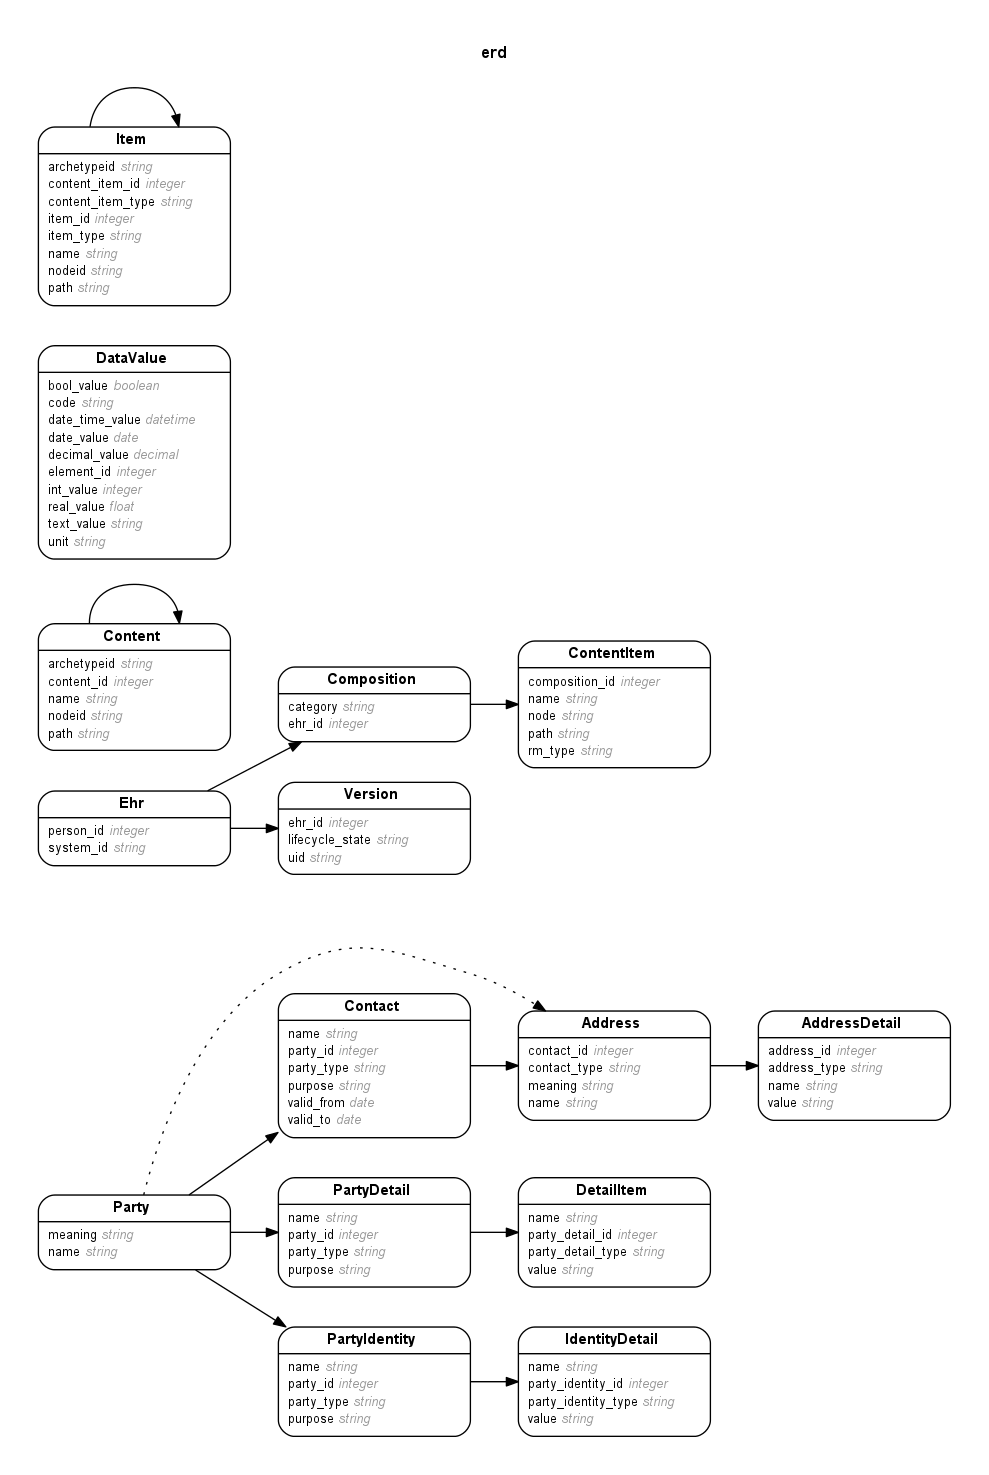
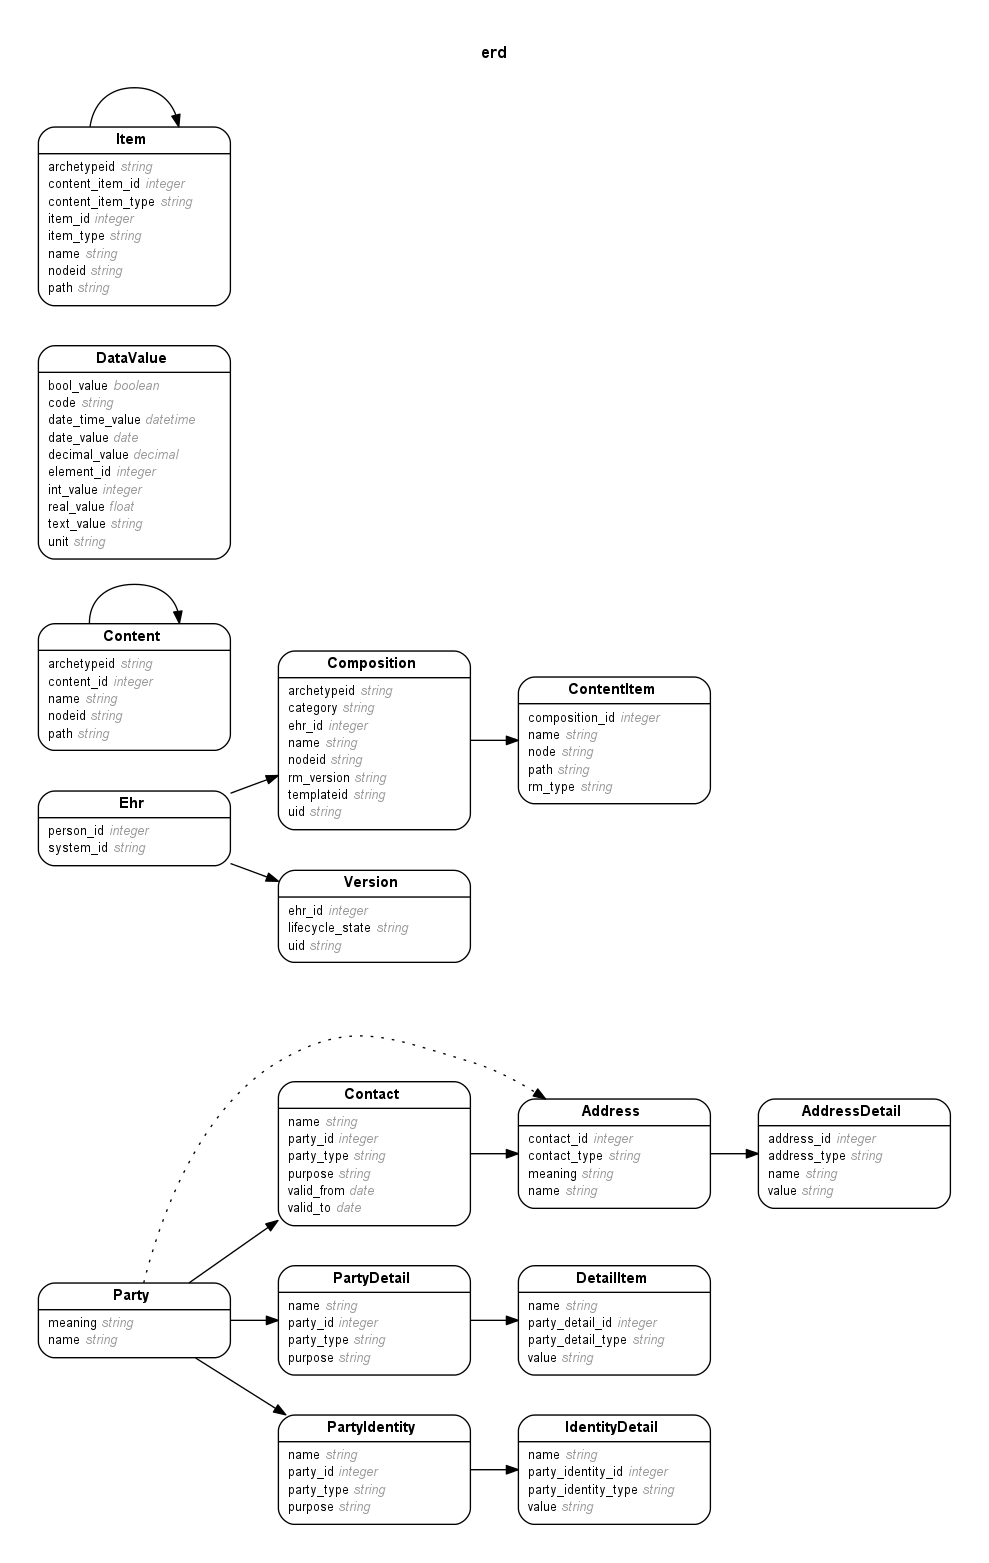
laboratory tests

diff --git a/app/models/mml_patient.rb b/app/models/mml_patient.rb
@@ -14,19 +14,13 @@ class MMLPatient < Person
     end
   end
 
-  def master_id
-    self.party_identities.where(name: 'regional id').first.
-      identity_details.
-      where(name: 'maiko id').first.value
-  end
-
   def master_id=(master_id)
     self.party_identities.build(name: 'regional id').identity_details.build(name: 'maiko id', value: master_id)
   end
 
   def other_ids
     self.party_identities.where(name: 'local id').map do |id|
-      {issuer: id.purpose, id: id.identity_details.where(name: 'id').first.value}
+      {issuer: id.purpose, id: id.identity_details.find_by(name: 'id').value}
     end
   end
 
@@ -36,52 +30,29 @@ class MMLPatient < Person
     end
   end
 
-  def person_name
-    @person_name ||= self.party_identities.build(name: 'person name', purpose: 'legal name')
-  end
-
-  def first_name
-    self.party_identities.where(name: 'person name').first.identity_details.where(name: 'given name').first.value
-  end
 
   def first_name=(first_name)
     person_name.identity_details.build(name: 'given name', value: first_name)
   end
 
-  def family_name
-    self.party_identities.where(name: 'person name').first.identity_details.where(name: 'family name').first.value
-  end
 
   def family_name=(family_name)
     person_name.identity_details.build(name: 'family name', value: family_name)
   end
 
-  def given_name
-    self.party_identities.where(name: 'person name', purpose: 'legal name').first.identity_details.where(name: 'given name')
-  end
-
   def given_name=(given_name)
-    person_name.identity_details.build(name: 'given name', value: given_name)
+    person_name.identity_details.
+      build(name: 'given name', value: given_name)
   end
 
   def details_general
     @details_general ||= self.party_details.build(name: 'general')
   end
 
-  def birthday
-    bd = self.party_details.where(name: 'general').first.
-      detail_items.where(name: 'birthday').first.value
-    Date.parse(bd)
-  end
 
   def birthday=(birthday)
     bd = Date.parse(birthday)
     details_general.detail_items.build(name: 'birthday', value: bd)
-  end
-
-  def sex
-    self.party_details.where(name: 'general').first.
-      detail_items.where(name: 'gender').first.value
   end
 
   def sex=(sex)
@@ -89,8 +60,8 @@ class MMLPatient < Person
   end
 
   def nationality
-    self.party_details.where(name: 'general').first.
-      detail_items.where(name: 'nationality').first.value
+    self.party_details.find_by(name: 'general').
+      detail_items.find_by(name: 'nationality').value
   end
 
   def nationality=(nationality)
@@ -99,8 +70,8 @@ class MMLPatient < Person
   end
 
   def marital
-    self.party_details.where(name: 'general').first.
-      detail_items.where(name: 'marital').first.value
+    self.party_details.find_by(name: 'general').
+      detail_items.find_by(name: 'marital').value
   end
 
   def marital=(marital)
@@ -123,6 +94,8 @@ class MMLPatient < Person
   def phones
     self.addresses.where(name: 'phone')
   end
+
+#  scope :phones, -> {self.addresses.where(name: 'phone')}
 
   def phones=(phones)
     phones.each do |name, details|

diff --git a/spec/models/composition_spec.rb b/spec/models/composition_spec.rb
@@ -1,5 +1,39 @@
 require 'rails_helper'
 
 RSpec.describe Composition, :type => :model do
+  subject { build :composition }
 
+  it {is_expected.to be_valid}
+  it {is_expected.to belong_to :ehr}
+  it {is_expected.to have_many :content_items}
+
+  let (:composition) {build :composition}
+
+  specify 'category is persisitent' do
+    expect(composition.category).to eq 'persistent'
+  end
+
+  specify 'name is MML Labo test report' do
+    expect(composition.name).to eq 'MML Lab test report'
+  end
+
+  specify 'nodeid is at0000' do
+    expect(composition.nodeid).to eq 'at0000'
+  end
+
+  specify 'uid is assigned by client' do
+    expect(composition.uid).to eq '0000-1111-2222-3333'
+  end
+
+  specify 'archetypeid is penEHR-EHR-COMPOSITION.report-mml_lab_test.v1' do
+    expect(composition.archetypeid).to eq 'openEHR-EHR-COMPOSITION.report-mml_lab_test.v1'
+  end
+
+  specify 'templeteid is MML Lab Test' do
+    expect(composition.templateid).to eq 'MML Lab Test'
+  end
+
+  specify 'rm version is 1.0.2' do
+    expect(composition.rm_version).to eq '1.0.2'
+  end
 end

diff --git a/app/models/person.rb b/app/models/person.rb
@@ -1,3 +1,40 @@
 class Person < Party
   has_one :ehr
+
+  def master_id
+    self.party_identities.find_by(name: 'regional id').
+      identity_details.
+      find_by(name: 'maiko id').value
+  end
+
+  def person_name
+    @person_name ||= self.party_identities.build(name: 'person name', purpose: 'legal name')
+  end
+
+  def first_name
+    self.party_identities.find_by(name: 'person name').identity_details.find_by(name: 'given name').value
+  end
+
+  def family_name
+    self.party_identities.find_by(name: 'person name').identity_details.find_by(name: 'family name').value
+  end
+
+  def given_name
+    self.party_identities.
+      find_by(name: 'person name', purpose: 'legal name').
+      identity_details.
+      find_by(name: 'given name')
+  end
+
+  def birthday
+    bd = self.party_details.
+      find_by(name: 'general').
+      detail_items.find_by(name: 'birthday').value
+    Date.parse(bd)
+  end
+
+  def sex
+    self.party_details.find_by(name: 'general').
+      detail_items.find_by(name: 'gender').value
+  end
 end

diff --git a/db/seeds.rb b/db/seeds.rb
@@ -13,6 +13,7 @@ FactoryGirl.define do
       create :dummy_home_contact, party: person
       create :dummy_work_contact, party: person
       create :dummy_details_in_general, party: person
+      create :dummy_ehr, person: person
     end
   end
 
@@ -208,6 +209,23 @@ FactoryGirl.define do
     name 'nationality'
     value {Faker::Address.country}
     association :party_detail, factory: :dummy_details_in_general
+  end
+
+  factory :dummy_ehr, class: Ehr do
+    system_id 'rDolphin'
+    after(:create) do |ehr|
+      10.times { create :dummy_composition, ehr: ehr}
+    end
+  end
+
+  factory :dummy_composition, class: Composition do
+    category "persistent"
+    name {['MML Lab test', 'MML Report', 'MML Summary'].sample}
+    nodeid 'at0000'
+    uid {SecureRandom.uuid}
+    archetypeid 'openEHR-EHR-COMPOSITION.report.v1'
+#    templateid 'MML Lab Test'
+    rm_version '1.0.2'
   end
 end
 

diff --git a/spec/factories/mml_patients.rb b/spec/factories/mml_patients.rb
@@ -10,5 +10,22 @@ FactoryGirl.define do
     marital 'yes'
     phones('work' => {'area' => '075', 'city' => '123', 'number' => '4567'})
     postal_addresses('HOME' => {'prefecture' => 'Kyotofu', 'city' => 'Kyoto', 'town' => 'Chudo-ji', 'home number' => '91', 'zip' => '600-8815'})
+    after(:create) {|patient| create :dolphin_ehr, person: patient}
+  end
+
+  factory :dolphin_ehr, class: Ehr do
+    system_id 'rDolphin'
+    after(:create) do |ehr|
+      create :lab_test_composition, ehr: ehr
+    end
+  end
+
+  factory :lab_test_composition, class: Composition do
+    category 'persistent'
+    name 'Laboratory Test'
+    archetypeid 'openEHR-EHR-COMPOSITION.report-mml_labtest.v1'
+    templateid 'MML Lab Test'
+    nodeid 'at0000'
+    uid {SecureRandom.uuid}
   end
 end

diff --git a/db/schema.rb b/db/schema.rb
@@ -39,8 +39,14 @@ ActiveRecord::Schema.define(version: 20140902163416) do
   add_index "addresses", ["contact_id", "contact_type"], name: "index_addresses_on_contact_id_and_contact_type", using: :btree
 
   create_table "compositions", force: true do |t|
-    t.integer  "ehr_id"
     t.string   "category"
+    t.string   "name"
+    t.string   "nodeid"
+    t.string   "uid"
+    t.string   "archetypeid"
+    t.string   "templateid"
+    t.string   "rm_version"
+    t.integer  "ehr_id"
     t.datetime "created_at"
     t.datetime "updated_at"
   end

diff --git a/db/migrate/20140902163416_create_content_items.rb b/db/migrate/20140902163416_create_content_items.rb
@@ -1,11 +1,13 @@
 class CreateContentItems < ActiveRecord::Migration
   def change
     create_table :content_items do |t|
-      t.references :composition, index: true
       t.string :name
-      t.string :node
-      t.string :path
+      t.string :archetypeid
       t.string :rm_type
+      t.string :nodeid
+      t.string :path
+      t.references :composition, index: true
+      t.references :content_item, index: true, polymorphic: true
 
       t.timestamps
     end

diff --git a/spec/features/mml_patients_spec.rb b/spec/features/mml_patients_spec.rb
@@ -1,7 +1,7 @@
 # -*- coding: utf-8 -*-
 feature 'patients list view' do
   background do
-    create_list :person, 10
+    FactoryGirl.create_list :person, 10
   end
 
   scenario 'visit root path' do
@@ -18,5 +18,6 @@ feature 'patients list view' do
     expect(page).to have_content "生年月日"
     expect(page).to have_content '1990-01-01'
     expect(page).to have_content "性別"
+    expect(page).to have_content 'male'
   end
 end

diff --git a/spec/factories/compositions.rb b/spec/factories/compositions.rb
@@ -1,8 +1,12 @@
-# Read about factories at https://github.com/thoughtbot/factory_girl
-
 FactoryGirl.define do
   factory :composition do
 #    ehr nil
-    category "persisitent"
+    category "persistent"
+    name 'MML Lab test report'
+    nodeid 'at0000'
+    uid '0000-1111-2222-3333'
+    archetypeid 'openEHR-EHR-COMPOSITION.report-mml_lab_test.v1'
+    templateid 'MML Lab Test'
+    rm_version '1.0.2'
   end
 end

diff --git a/db/migrate/20140902162646_create_compositions.rb b/db/migrate/20140902162646_create_compositions.rb
@@ -1,8 +1,14 @@
 class CreateCompositions < ActiveRecord::Migration
   def change
     create_table :compositions do |t|
-      t.references :ehr, index: true
       t.string :category
+      t.string :name
+      t.string :nodeid
+      t.string :uid
+      t.string :archetypeid
+      t.string :templateid
+      t.string :rm_version
+      t.references :ehr, index: true
 
       t.timestamps
     end

diff --git a/spec/factories/content_items.rb b/spec/factories/content_items.rb
@@ -2,10 +2,11 @@
 
 FactoryGirl.define do
   factory :content_item do
-    composition nil
-    name "MyString"
-    node "MyString"
-    path "MyString"
-    rm_type "MyString"
+#    composition nil
+    name "Laboratory test"
+    nodeid "at0004"
+    archetypeid "openEHR-EHR-OBSERVATION.lab_test.v1"
+    path "/content[at0002]/value"
+    rm_type "OBSERVATION"
   end
 end

diff --git a/app/controllers/compositions_controller.rb b/app/controllers/compositions_controller.rb
@@ -1,0 +1,16 @@
+class CompositionsController < ApplicationController
+  before_action :set_composition, only: [:show] 
+
+  def show
+  end
+
+  private
+    def set_composition
+      @composition = Composition.find(params[:id])
+    end
+
+    def composition_params
+      params.require(:composition).permit(:id)
+    end
+
+end
